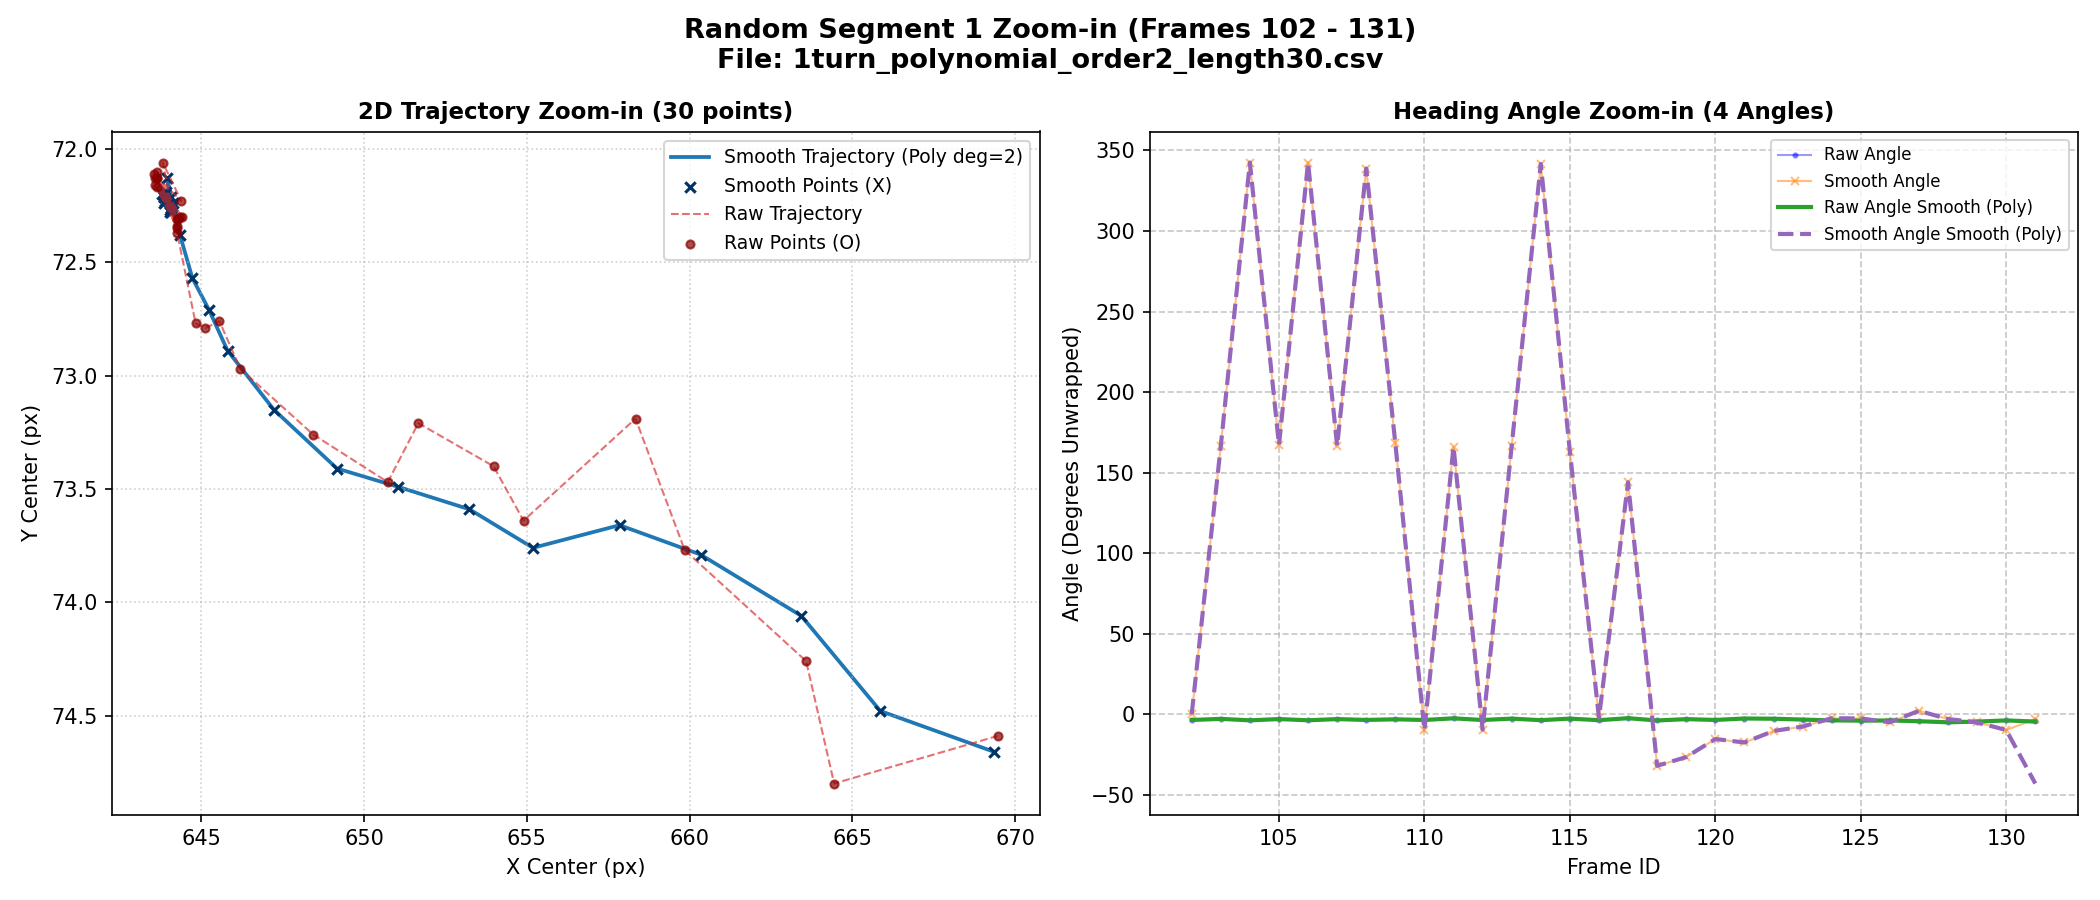
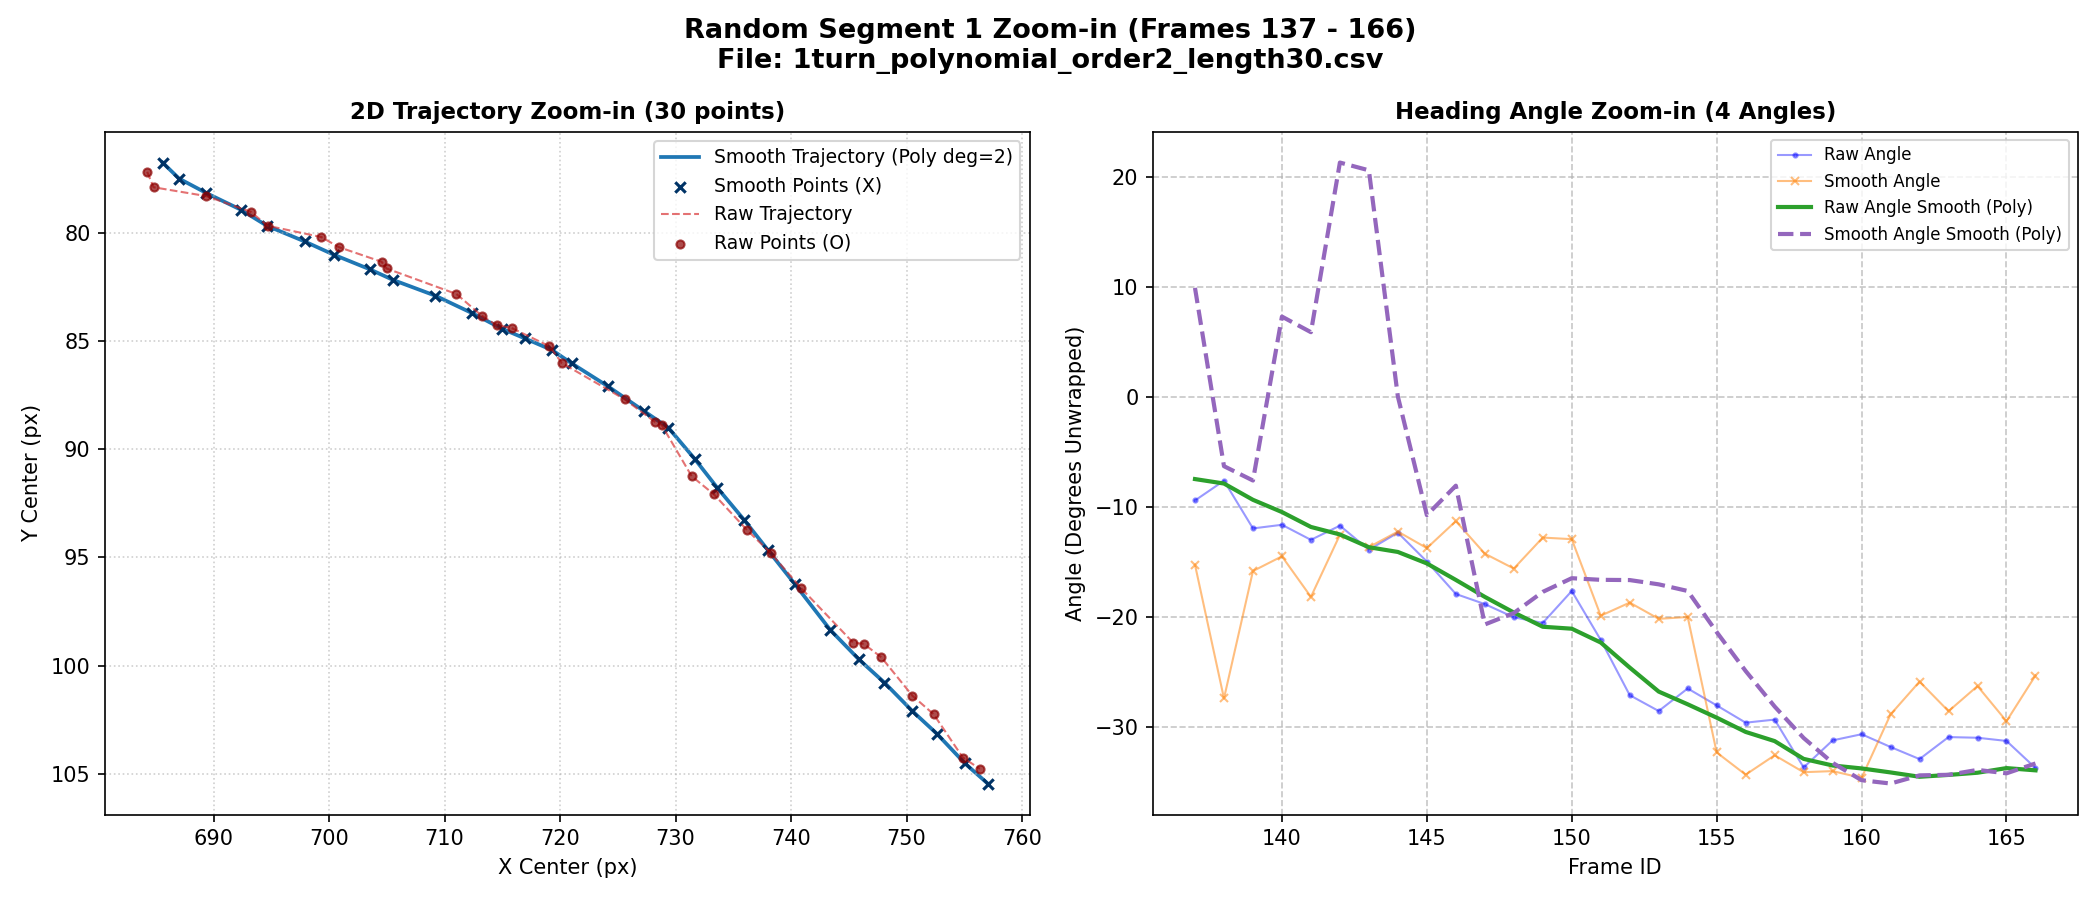
update

diff --git a/260807/Readme.md b/260807/Readme.md
@@ -88,7 +88,7 @@ python tools/plot_online_poly_log.py benchmark/3turn_polynomial_order2_length30.
 ### Vẽ năm segment ngẫu nhiên
 
 ```powershell
-python tools/plot_random_5segments.py benchmark/1turn_polynomial_order2_length30.csv --num 5 --seed 42
+python tools/plot_random_5segments.py benchmark/1turn_polynomial_order2_length30.csv --num 5 --seed 99
 python tools/plot_random_5segments.py benchmark/2turn_polynomial_order2_length30.csv --num 5 --seed 42
 python tools/plot_random_5segments.py benchmark/3turn_polynomial_order2_length30.csv --num 5 --seed 123
 ```
@@ -114,11 +114,11 @@ python tools/plot_random_5segments.py benchmark/3turn_polynomial_order2_length30
 
 | Segment | Frame ID |
 |---|---|
-| 1 | 102-131 |
-| 2 | 167-196 |
-| 3 | 257-286 |
-| 4 | 332-361 |
-| 5 | 377-406 |
+| 1 | 137-166 |
+| 2 | 182-211 |
+| 3 | 222-251 |
+| 4 | 257-286 |
+| 5 | 367-396 |
 
 ![1 turn random segment 1](benchmark/1turn_polynomial_order2_length30_random_seg1.png)
 ![1 turn random segment 2](benchmark/1turn_polynomial_order2_length30_random_seg2.png)
